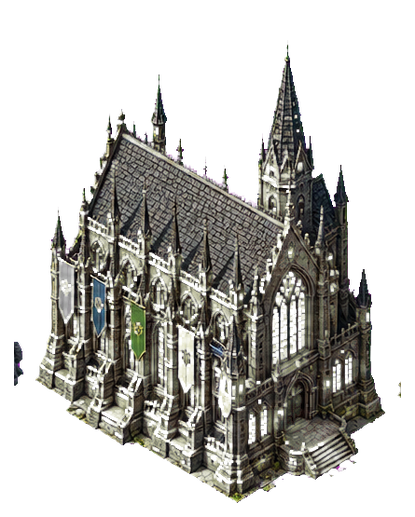
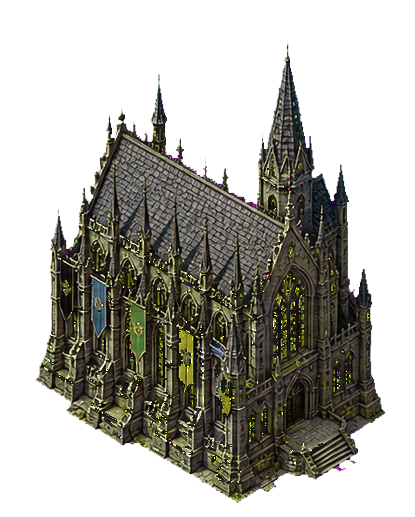
Fix translucent Hogwarts Great Hall

diff --git a/test/fantasy-factions.test.js b/test/fantasy-factions.test.js
@@ -1,5 +1,6 @@
 import test from 'node:test';
 import assert from 'node:assert/strict';
+import { createHash } from 'node:crypto';
 import { readFile, stat } from 'node:fs/promises';
 
 import { Commander } from '../js/ai.js';
@@ -281,6 +282,16 @@ test('fantasy architecture is backed by substantial high-detail production asset
       assert.deepEqual(webpDimensions(await readFile(assetUrl)), { width: 768, height: 1024 });
     }
   }
+});
+
+test('the Great Hall keeps its opacity-corrected production artwork', async () => {
+  const assetUrl = new URL('../assets/buildings/hogwarts-great-hall.webp', import.meta.url);
+  const digest = createHash('sha256').update(await readFile(assetUrl)).digest('hex');
+  assert.equal(
+    digest,
[1 lines of base64/hex data omitted]
+    'the alpha-corrected masonry must not regress to the translucent source sprite',
+  );
 });
 
 test('world-country identity and fantasy units survive save and resume', () => {